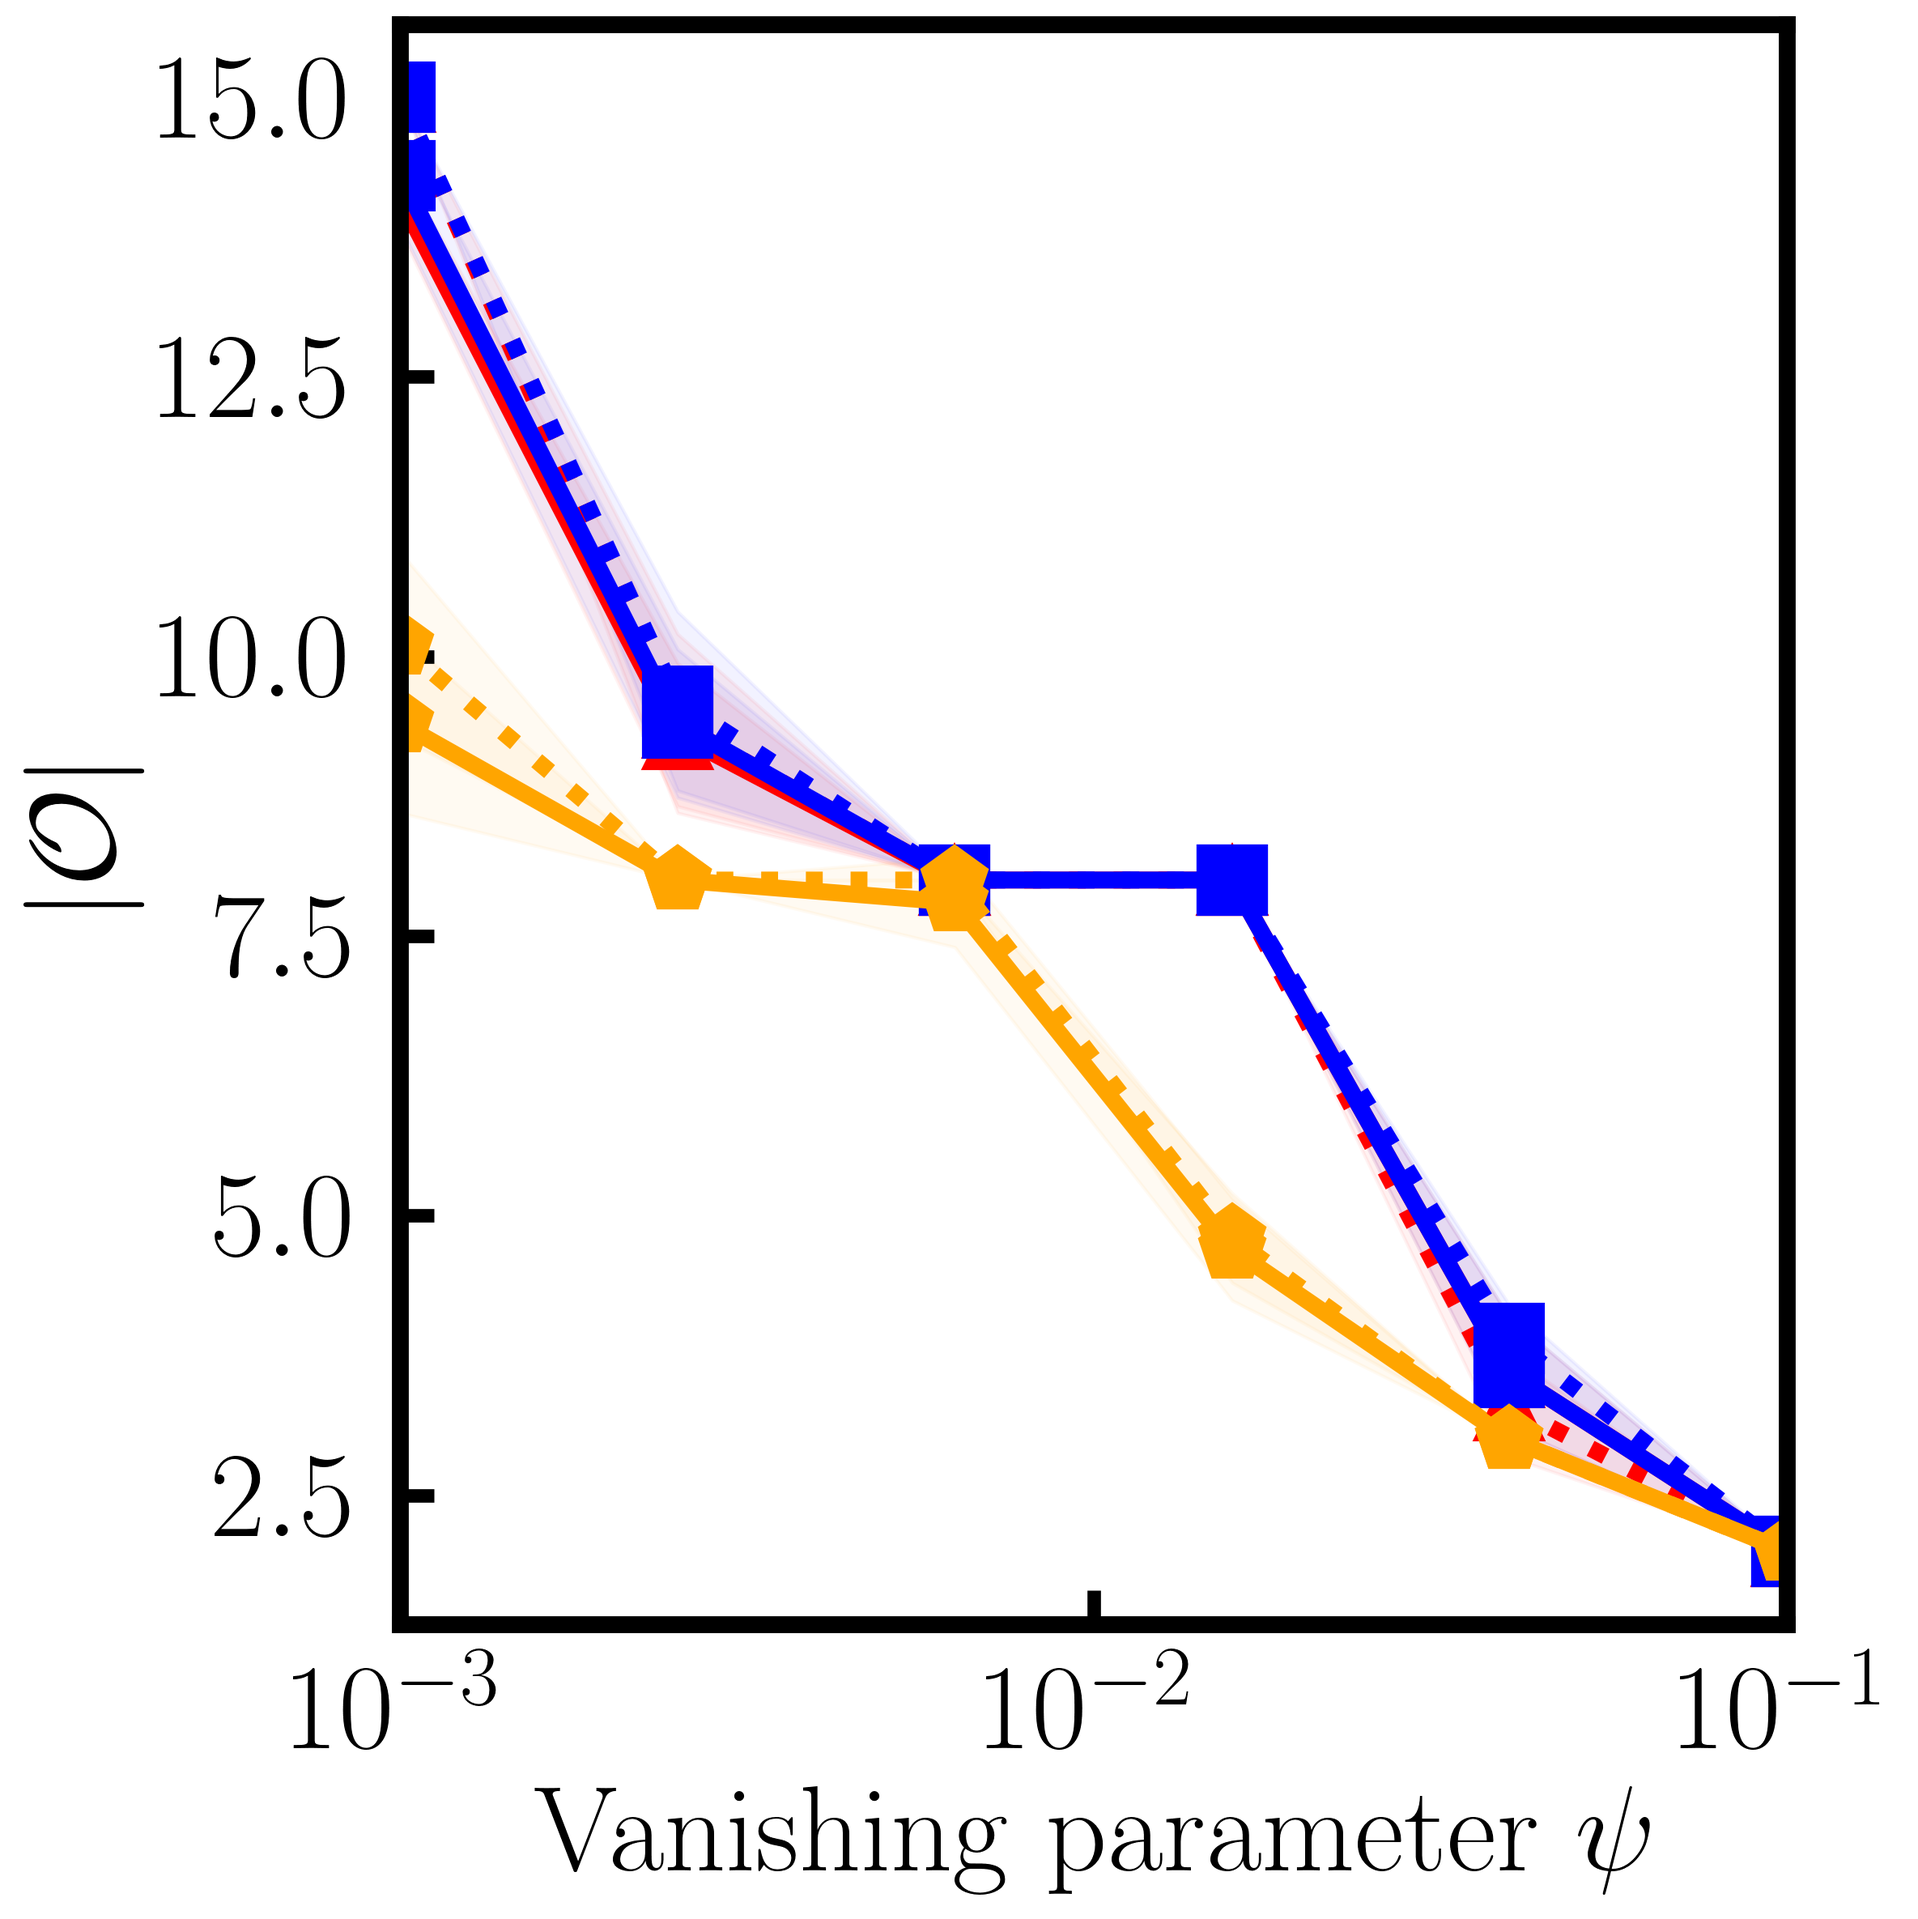
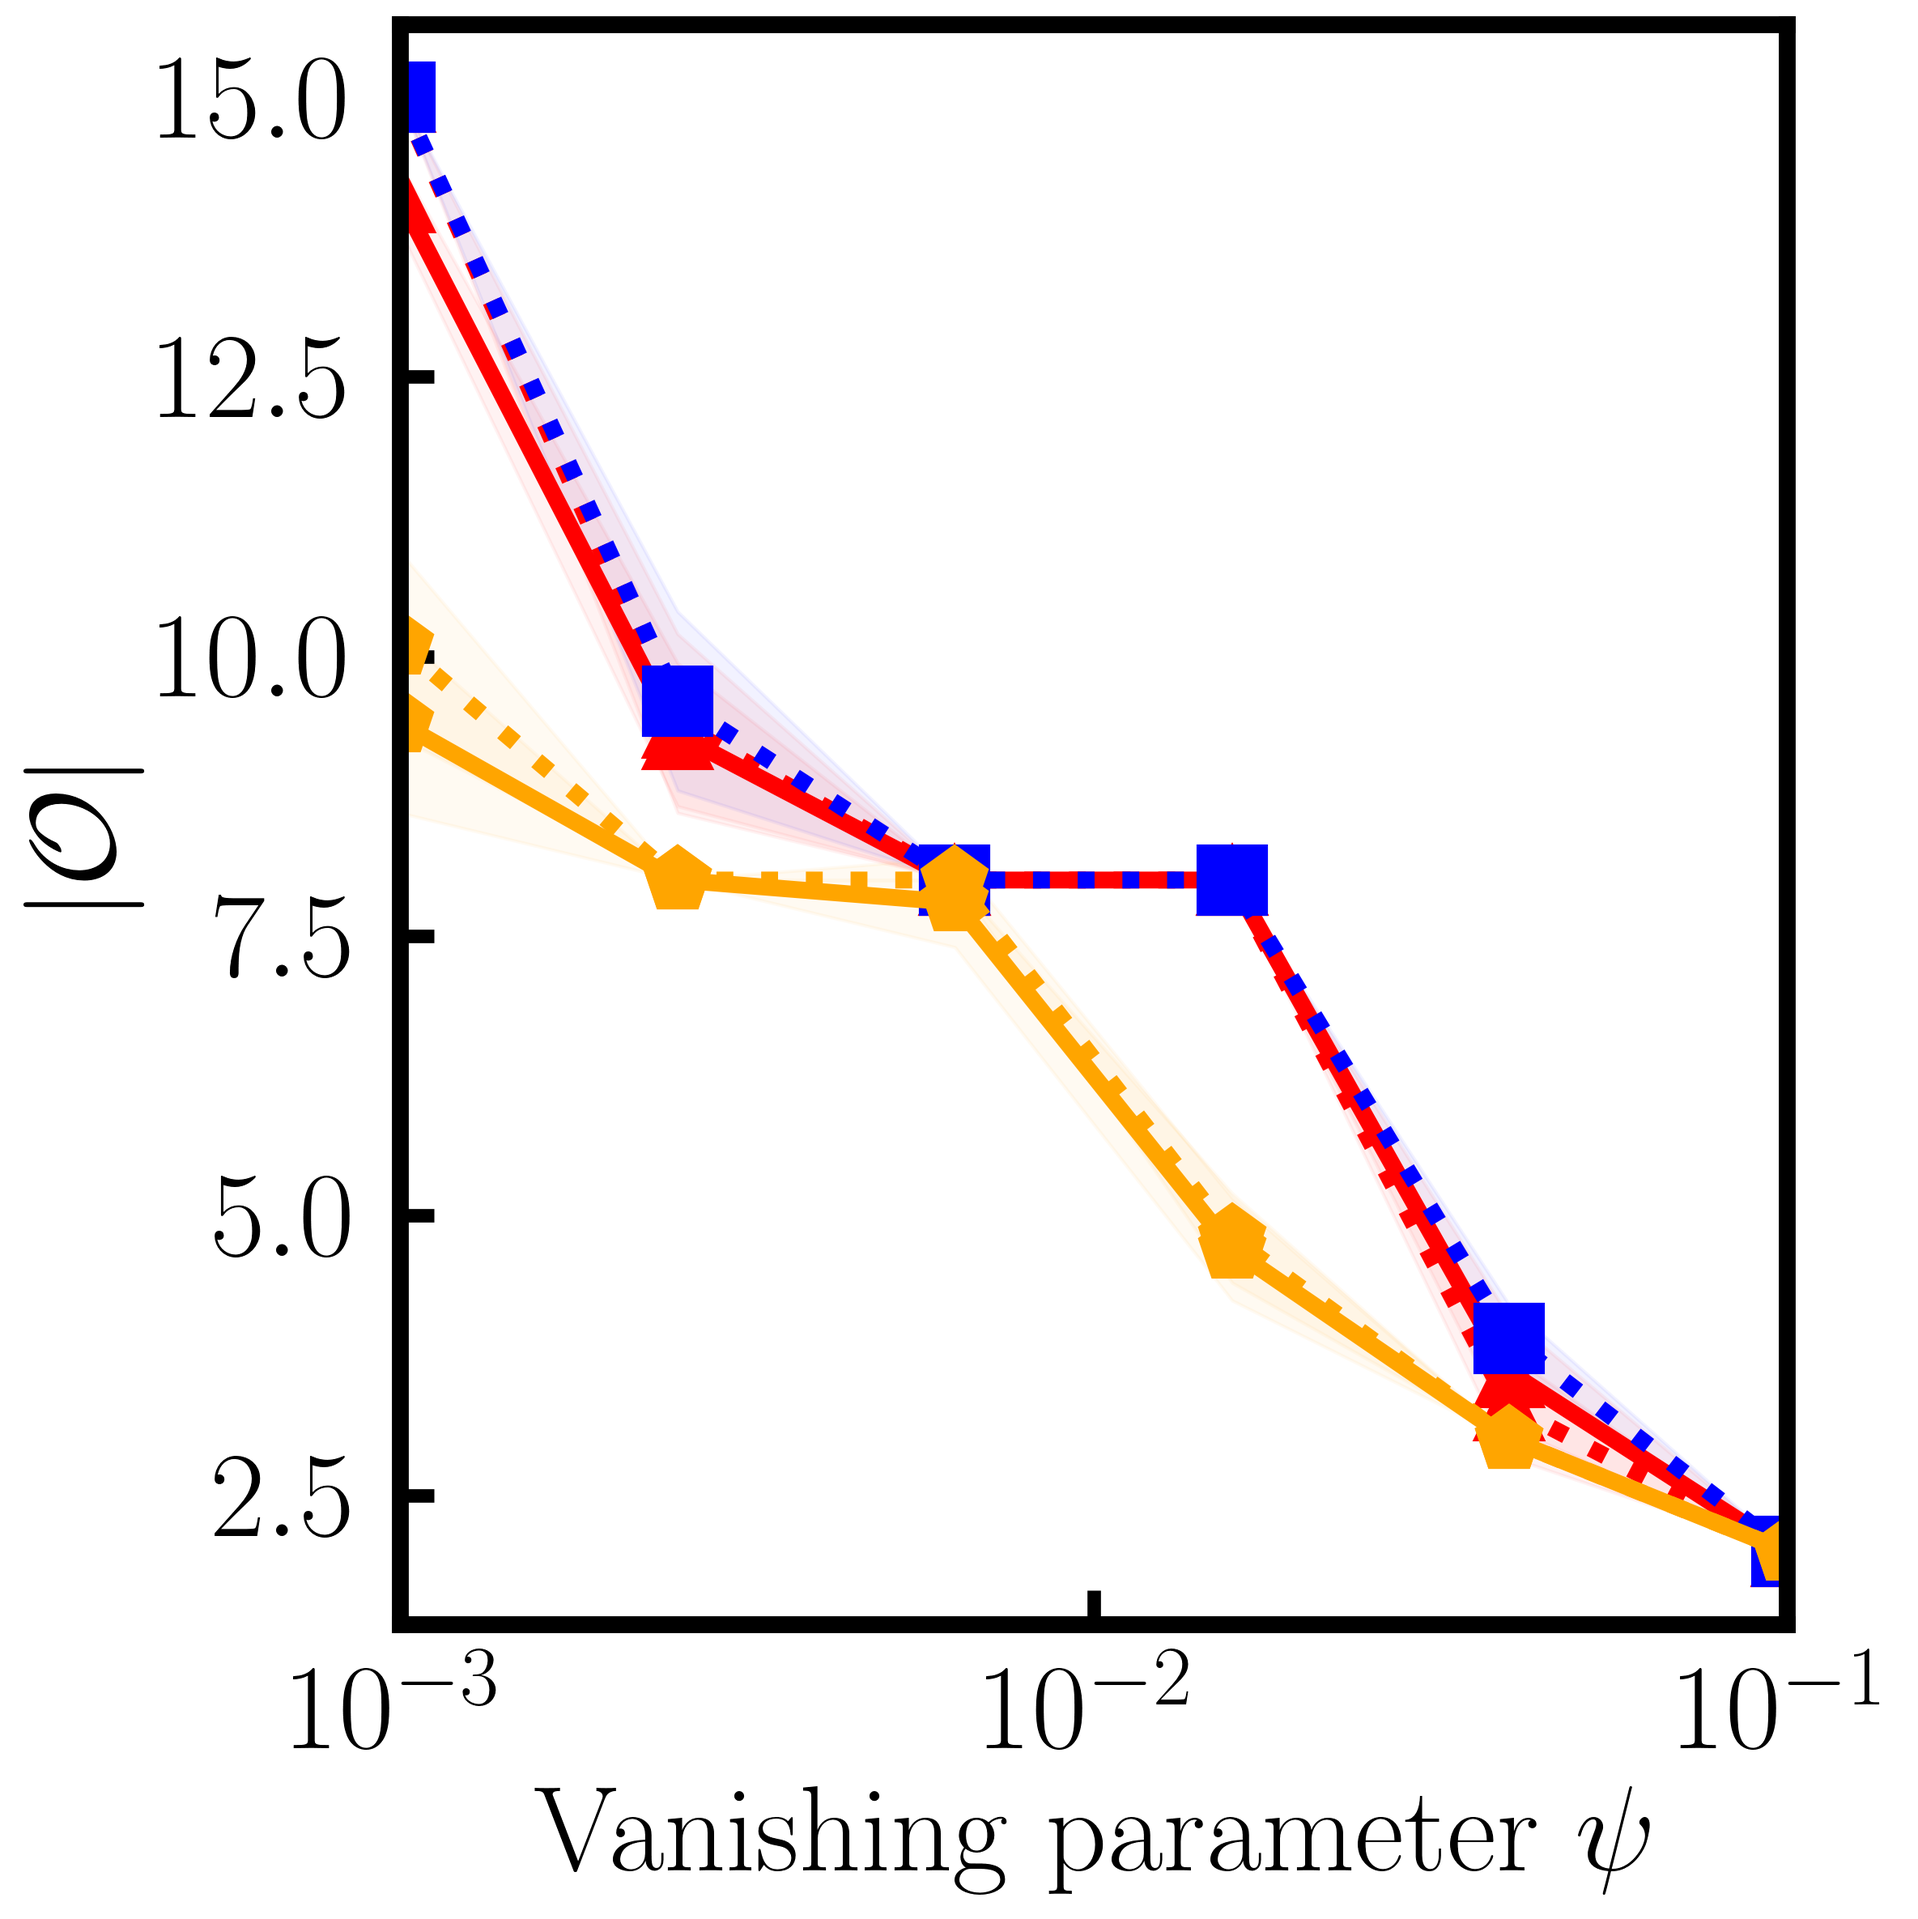
changed plots a bit more

diff --git a/src/experiment_setups/experiment_border_types.py b/src/experiment_setups/experiment_border_types.py
@@ -5,12 +5,13 @@ from src.auxiliary_functions.auxiliary_functions import translate_names
 from src.experiment_setups.experiment_setups import fetch_and_prepare_data, ExperimentSetups
 from src.plotting.plotting_functions import plotter
 
+
 def comparison_border_types(title: str, hyperparameters: list, data_set_names, ordering: bool = False):
     """Compares different types of borders."""
     cp.random.seed(n_seed_)
     np.random.seed(n_seed_)
 
-    psis = np.logspace(-1, -3, 8).tolist()
+    psis = np.logspace(-0, -3.5, 10).tolist()
     psis.reverse()
 
     # collect the names of all algorithms
@@ -80,7 +81,7 @@ def comparison_border_types(title: str, hyperparameters: list, data_set_names, o
         else:
             pass_algorithm_names = algorithm_names
         plotter(str(title + "_G"), mean_polynomials, psis, pass_algorithm_names, data_set_name,
-                std_data=std_polynomials,
+                std_data=None,
                 x_label=r"Vanishing parameter $\psi$", y_label=r"$|\mathcal{G}|$", x_scale="log", two_versions=True)
-        plotter(str(title + "_O"), mean_terms, psis, pass_algorithm_names, data_set_name, std_data=std_terms,
+        plotter(str(title + "_O"), mean_terms, psis, pass_algorithm_names, data_set_name, std_data=None,
                 x_label=r"Vanishing parameter $\psi$", y_label=r"$|\mathcal{O}|$", x_scale="log", two_versions=True)

diff --git a/experiments.py b/experiments.py
@@ -54,3 +54,4 @@ hp_abm_bb_plot = {'algorithm': 'oavi', 'oracle_type': 'ABM', 'psi': psis_, 'C': 
 comparison_border_types("comparison_border_types",
                         [hp_cgavi_ihb_gb_plot, hp_cgavi_ihb_bb_plot, hp_bpcg_wihb_gb_plot, hp_bpcg_wihb_bb_plot,
                          hp_abm_gb_plot, hp_abm_bb_plot], data_sets_performance_gb_)
+
